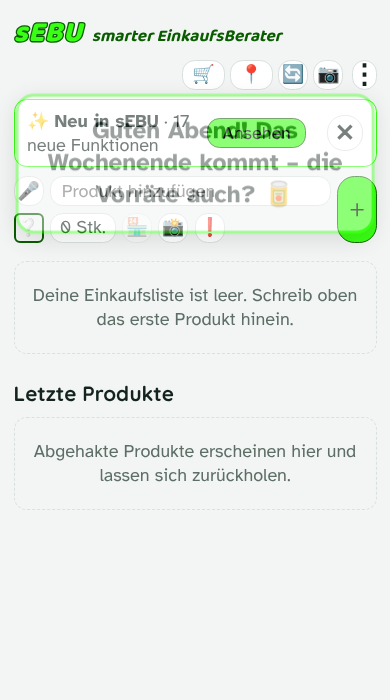
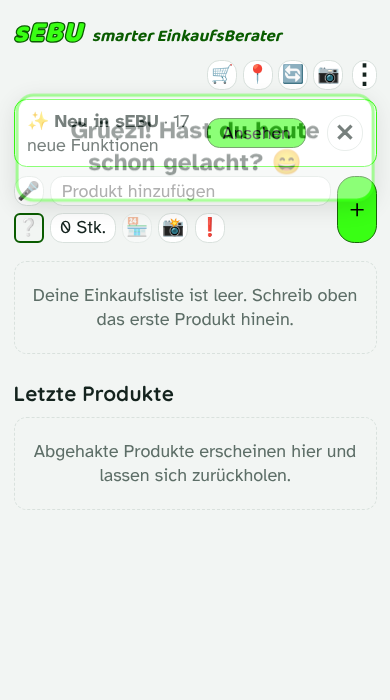
Kopfzeile: 🛒/📍 schmal, Knöpfe wieder neben ⋮
Claude-Session: https://claude.ai/code/session_01D8YzSZq49mBYGwQ71jG7sa

Changed region(s): [[0.0308, 0.15, 0.9538, 0.36], [0.4923, 0.09, 0.6769, 0.12]]

diff --git a/index.html b/index.html
@@ -106,7 +106,7 @@ html.addwrap .add{display:grid;grid-template-columns:repeat(var(--n),auto) 1fr a
 .wheels.hz .band{top:0;left:calc(50% - var(--ww)/2);width:var(--ww);height:var(--wo);right:auto}
 .greet{position:fixed;left:50%;top:4.2em;transform:translateX(-50%);width:min(92vw,26em);z-index:60;background:var(--card);color:var(--ink);border:3px solid #39FF14;box-shadow:0 6px 24px rgba(0,0,0,.25);border-radius:18px;padding:.8em 1em;font-size:1.35em;font-weight:700;text-align:center;line-height:1.3;animation:grin .35s ease-out;transition:opacity .4s,transform .4s;cursor:pointer}
 .greet.out{opacity:0;transform:translate(-50%,-.6em)}@keyframes grin{from{opacity:0;transform:translate(-50%,-.6em)}to{opacity:1;transform:translate(-50%,0)}}
-.qkb.ql{gap:.25em;padding:0 .55em}.qkb.ql small{font-size:.62em;max-width:6.5em;overflow:hidden;text-overflow:ellipsis;white-space:nowrap}
+.qkb.ql{gap:.2em;padding:0 .45em}.qkb.ql small{font-size:.62em;max-width:6.5em;overflow:hidden;text-overflow:ellipsis;white-space:nowrap}
 .tc>.card{pointer-events:auto;display:block;max-width:34em;width:100%;user-select:text;box-shadow:0 .3em 1.2em #0005}
 .ordrow{display:flex;align-items:center;gap:.4em;padding:.3em .4em;margin-bottom:.3em;background:var(--card);border:1px solid var(--line);border-radius:.7em}
 .ordrow.drag{opacity:.5}
@@ -538,7 +538,7 @@ function shListPick(){var c=curL(),h='<h2>📋 '+t('Welche Liste?')+'</h2><div c
  return h+'</div><div class="seg" style="margin-top:.6em"><button class="btn" data-a="nav" data-v="lists">⚙ '+t('Listen verwalten')+'</button><button class="btn" data-a="shclose">'+t('Schliessen')+'</button></div>'}
 function shopBar(pv){
  if(S.shop&&!pv)return'';var b=on('bar'),c=on('cam')||on('scan'),qb=quickBtn();if(!b&&!c&&!qb)return'';var x=pv?'':' id="shopbtn"';
- return'<div class="seg topbar" style="margin-bottom:.5em">'+qb+(b?'<button class="btn"'+x+' data-a="shopstart" aria-label="'+t('Einkauf starten')+'">🛒'+(S.set.btnText?' '+t('Start'):'')+'</button>'+(cur?'':'<button class="btn" data-a="storepick" aria-label="'+t('Laden wählen')+'">📍'+(S.set.btnText?' '+t('Laden'):'')+'</button>')+'<button class="btn sq" data-a="gpsrefresh" aria-label="'+t('Filiale neu suchen')+'">🔄</button>':'')+(c?'<button class="btn sq'+(pv?'':' camb')+'" data-a="cam" aria-label="'+t(on('scan')&&!on('cam')?'Strichcode scannen':'Ratgeber')+'">📷</button>':'')+'</div>'}
+ return'<div class="seg topbar" style="margin-bottom:.5em">'+qb+(b?'<button class="btn'+(S.set.btnText?'':' sq')+'"'+x+' data-a="shopstart" aria-label="'+t('Einkauf starten')+'">🛒'+(S.set.btnText?' '+t('Start'):'')+'</button>'+(cur?'':'<button class="btn'+(S.set.btnText?'':' sq')+'" data-a="storepick" aria-label="'+t('Laden wählen')+'">📍'+(S.set.btnText?' '+t('Laden'):'')+'</button>')+'<button class="btn sq" data-a="gpsrefresh" aria-label="'+t('Filiale neu suchen')+'">🔄</button>':'')+(c?'<button class="btn sq'+(pv?'':' camb')+'" data-a="cam" aria-label="'+t(on('scan')&&!on('cam')?'Strichcode scannen':'Ratgeber')+'">📷</button>':'')+'</div>'}
 
 /* ===== Einkaufsliste ===== */
 function draftIcon(){return iconOf(draft)}

diff --git a/docs/ENTSCHEIDUNGEN.md b/docs/ENTSCHEIDUNGEN.md
@@ -805,3 +805,4 @@ Stand heute: 1 gebaut; 2 teilweise (Aktionen, aber ohne echte Datenquelle); 3 te
 - **Umgesetzt am 25.11.:** «Wo kaufst du das?» mit Suchfeld oben (filtert beim Tippen nach Wortanfang), Überschrift «Geschäfte»; eingetippte Geschäfte wie Aligro erscheinen jetzt auch als Auswahl. Menüpunkt «Läden» heisst «Geschäfte» (nur Menüpunkt und Seitentitel). In Führung und «Neu in sEBU» (n17).
 - 25.11.: Begrüssung neu 4 Sekunden statt 3.
 - 25.11.: Letzte Produkte: Knopf «Zurückholen» ersetzt durch runden ↩-Knopf (Erklärung beim Gedrückthalten).
+- 26.11.: 🛒 und 📍 in der Kopfzeile schmal (quadratisch wie 🔄, ausser mit «Knöpfe mit Text»), Listen-Knopf etwas kompakter – so passen die Knöpfe wieder auf die Zeile von ⋮.
